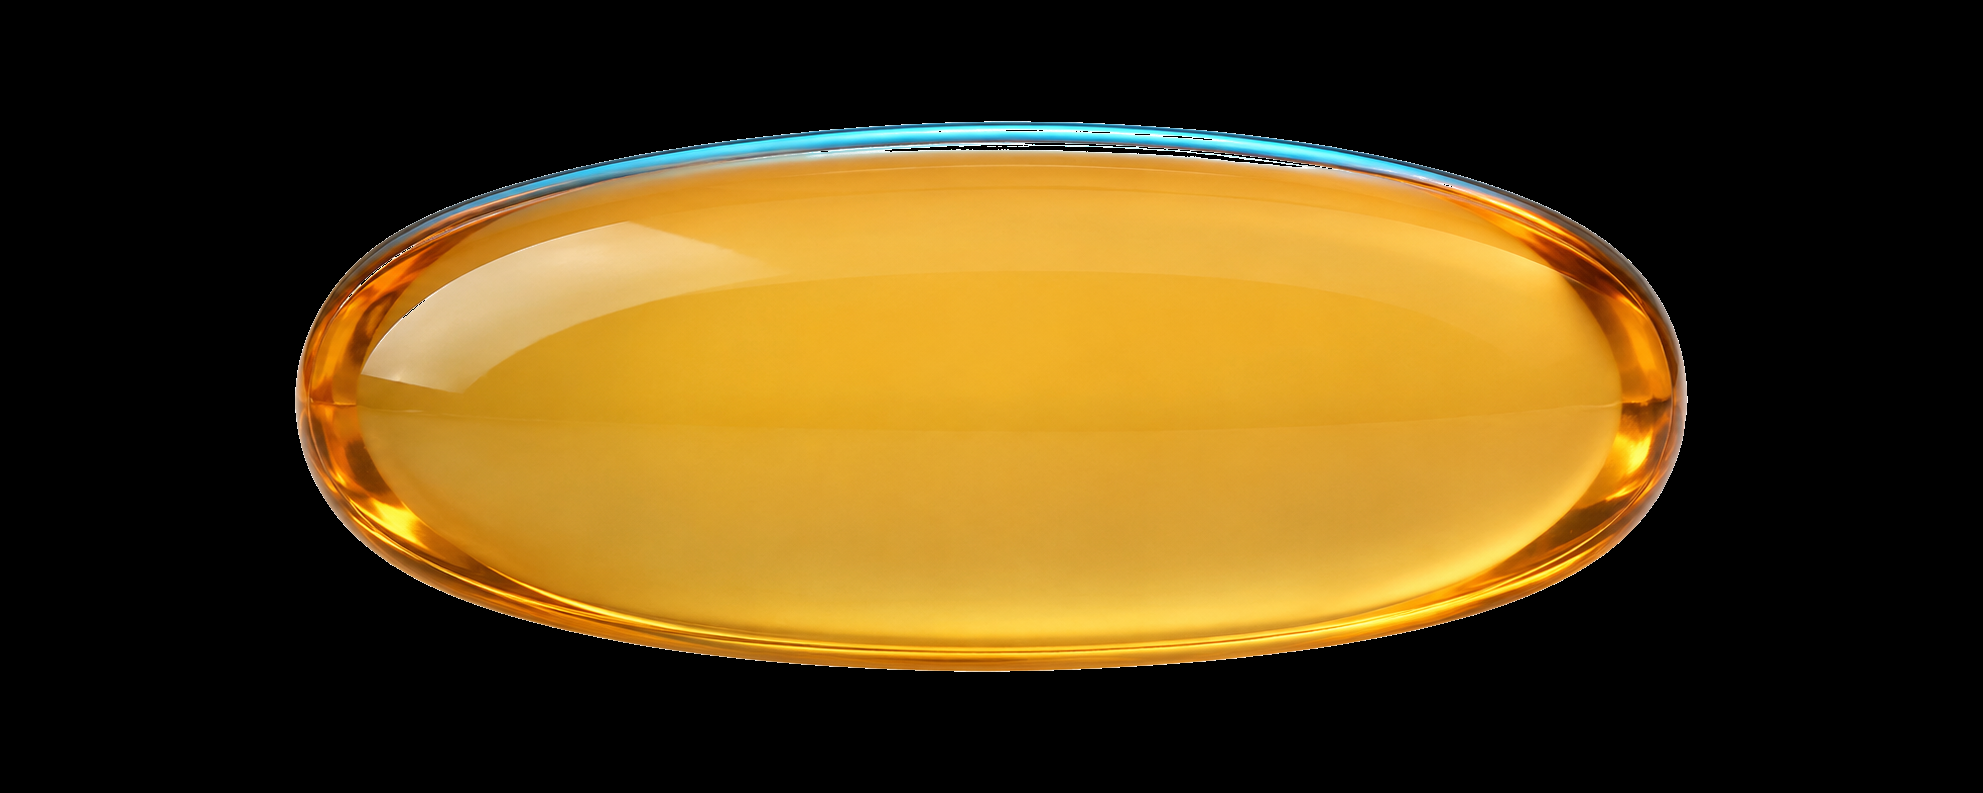
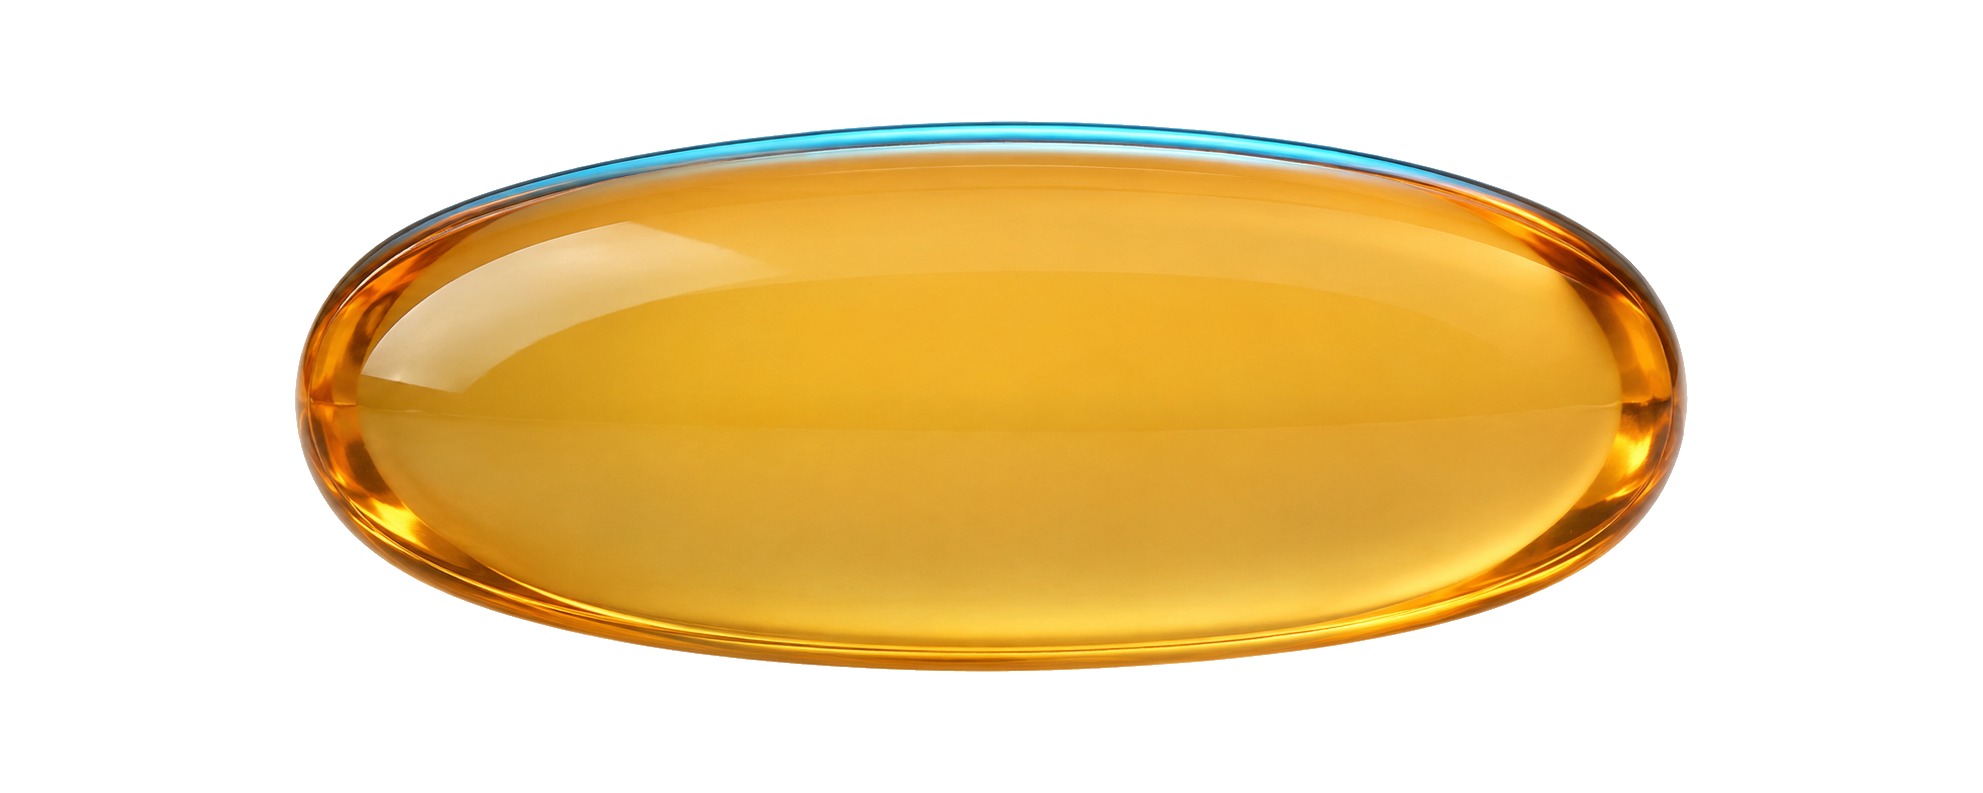
fix: proper transparent backgrounds on all hero PNGs, screen blend for dark halves
Restored original PNGs from b6d636a, then ran edge-seeded flood-fill background
removal (threshold=35, feather=22) targeting the actual grey studio background
(~236,236,236). The dark capsule outline stops the fill from leaking into white
or light-blue capsule bodies. Added mix-blend-mode:screen to all img elements so
the near-black bottle/capsule halves read as subtle dark shapes against #0A0A0A
rather than invisible.

diff --git a/src/components/scroll/Act1Hero.tsx b/src/components/scroll/Act1Hero.tsx
@@ -395,13 +395,13 @@ export function Act1Hero({ onEnterQuiz, reducedMotion }: Props) {
 
         <div className="flex flex-col md:flex-row items-center gap-12 max-w-4xl mx-auto pt-16">
           <div className="relative shrink-0">
-            <img src={LID_SRC}    alt="" width={LID_W}    height={LID_H}    className="absolute left-1/2 -translate-x-1/2 -top-8 object-contain" />
-            <img src={BOTTLE_SRC} alt="" width={BOTTLE_W} height={BOTTLE_H} className="object-contain" style={{ maxHeight: 240 }} />
+            <img src={LID_SRC}    alt="" width={LID_W}    height={LID_H}    className="absolute left-1/2 -translate-x-1/2 -top-8 object-contain" style={{ mixBlendMode: 'screen' }} />
+            <img src={BOTTLE_SRC} alt="" width={BOTTLE_W} height={BOTTLE_H} className="object-contain" style={{ maxHeight: 240, mixBlendMode: 'screen' }} />
           </div>
           <div className="flex flex-col gap-4">
             {INGREDIENTS.map((ing, i) => (
               <div key={i} className="flex items-center gap-3">
-                <img src={ing.img} alt="" width={CAP_W * 0.75} height={CAP_H * 0.75} className="object-contain shrink-0" />
+                <img src={ing.img} alt="" width={CAP_W * 0.75} height={CAP_H * 0.75} className="object-contain shrink-0" style={{ mixBlendMode: 'screen' }} />
                 <div>
                   <p className="text-white text-sm font-semibold" style={{ fontFamily: 'var(--font-display)' }}>{ing.name}</p>
                   <p className="text-white/40 text-xs mt-0.5">{ing.benefit}</p>
@@ -495,6 +495,7 @@ export function Act1Hero({ onEnterQuiz, reducedMotion }: Props) {
           left: 0, top: 0,
           willChange: 'transform, opacity',
           opacity: assetsReady ? 1 : 0,
+          mixBlendMode: 'screen',
         }}
       />
 
@@ -511,6 +512,7 @@ export function Act1Hero({ onEnterQuiz, reducedMotion }: Props) {
           left: 0, top: 0,
           willChange: 'transform, opacity',
           opacity: assetsReady ? 1 : 0,
+          mixBlendMode: 'screen',
         }}
       />
 
@@ -525,7 +527,7 @@ export function Act1Hero({ onEnterQuiz, reducedMotion }: Props) {
           height={CAP_H}
           draggable={false}
           className="absolute object-contain pointer-events-none z-20"
-          style={{ left: 0, top: 0, willChange: 'transform, opacity', opacity: 0 }}
+          style={{ left: 0, top: 0, willChange: 'transform, opacity', opacity: 0, mixBlendMode: 'screen' }}
         />
       ))}
 
